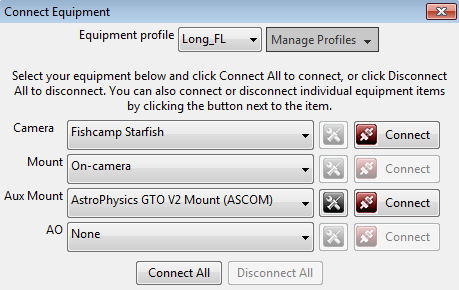
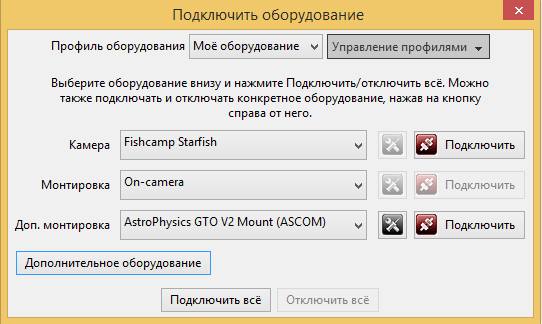
update Russian help translation

diff --git a/locale/ru_RU/help/Basic_use.htm b/locale/ru_RU/help/Basic_use.htm
@@ -36,7 +36,7 @@
     адаптивной оптики (АО). &nbsp;Нажав на кнопку 'Камера', вы увидите
     диалоговое окно, которое выглядит примерно так: <br>
     <br>
-    <img style="width: 459px; height: 289px;" alt=""
+    <img style="width: 539px; height: 324px;" alt=""
       src="Gear_Dialog.png"><br>
     <br>
     <h4><a name="Camera_Selection"></a>Выбор камеры</h4>
@@ -51,14 +51,6 @@
     Список поддерживаемых камер на момент написания приведён ниже, но
     пользователям следует&nbsp;проверить наличие обновлений в сети
     (например, <a href="http://www.stark-labs.com/phdguiding.html">Stark
-
-
-
-
-
-
-
-
       Labs</a>)<br>
     <br>
     Поддерживаемые камеры на декабрь 2014:<br>
@@ -160,7 +152,7 @@
     только для получения <br>
     информации о положении телескопа. Пример настироек показан ниже:<br>
     <br>
-    <img style="width: 459px; height: 290px;" alt=""
+    <img style="width: 542px; height: 324px;" alt=""
       src="Gear_Aux_Dialog.png"><br>
     <br>
     Под Windows "дополнительная" монтировка может использовать любой из
